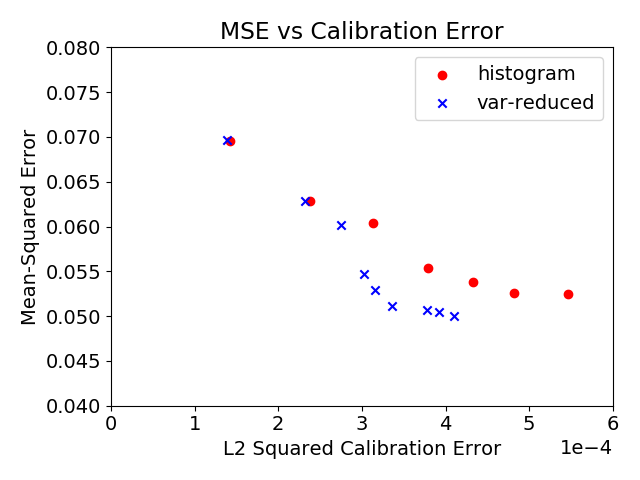
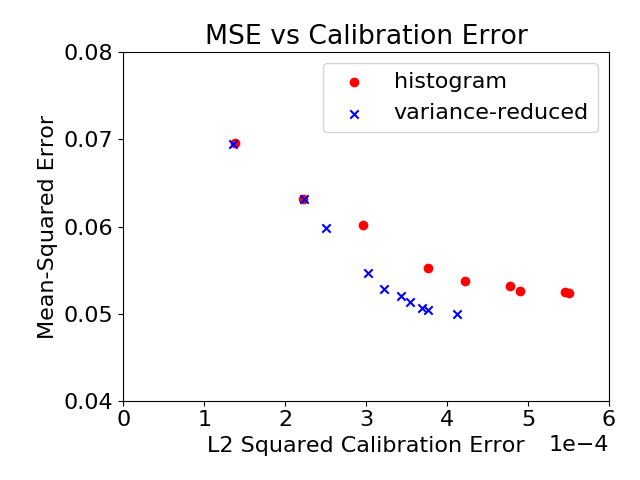
More updates

diff --git a/appendix_verifying_calibration_proofs.tex b/appendix_verifying_calibration_proofs.tex
@@ -3,11 +3,11 @@
 \section{Proofs for section~\ref{sec:verifying_calibration}}
 \label{sec:verifying_calibration_appendix}
 
-In this section we prove the finite sample bounds for the plugin and canceling estimators. We follow a very similar structure for both the plugin estimator and the canceling estimators.
+In this section we prove the finite sample bounds for the plugin and debiased estimators. We follow a very similar structure for both the plugin estimator and the debiased estimators.
 
 We first give a proof for the plugin estimator. At a high level, we decompose the plugin estimator into three terms (Lemma~\ref{lem:plugin_decomp}), and then bound each of these terms. Most of these terms simply involve algebraic manipulation and standard concentration results, except Lemma~\ref{lem:p2_bound} which requires some tricky conditioning.
 
-The canceling estimator decomposes into three terms as well, two of these terms are the same as those in the plugin estimator. Bounding the third term (Lemma~\ref{lem:c3_bound}) is the key to the improved sample complexity of the plugin estimator. The canceling estimator is not unbiased. However, with high probability if we condition on the $x_i$s in the evaluation set, each of these error terms is unbiased. We can then use Hoeffding's to concentrate each term near 0. The errors in each bin are then independent which leads to some cancelations of the error terms when we sum them up.
+The debiased estimator decomposes into three terms as well, two of these terms are the same as those in the plugin estimator. Bounding the third term (Lemma~\ref{lem:c3_bound}) is the key to the improved sample complexity of the plugin estimator. The debiased estimator is not completely unbiased. However, with high probability if we condition on the $x_i$s in the evaluation set, each of these error terms is unbiased. We can then use Hoeffding's to concentrate each term near 0. The errors in each bin are then independent which leads to some cancelations of the error terms when we sum them up.
 
 \textbf{We use the following notation simplification} to simplify the theorem statements and proofs:
 \[ p_i = P(f(X) = s_i) \]
@@ -137,42 +137,43 @@ We then prove the final bound for the plugin estimator.
 \finalPlugin*
 
 \begin{proof}
-We first provide an intuitive argument, and then a formal proof. When $r = 0.5$, we intuitively want to distinguish between when ${E^*}^2$ is $\epsilon^2$ and $0.5\epsilon^2$. So we want to bound the confidence interval by a constant factor of $\epsilon^2$ in the regime where ${E^*}^2 \approx \epsilon^2$. Substitute ${E^*}^2 = \epsilon^2$ into the bound in Theorem~\ref{thm:plugin-bound}, and write out the condition that $| \pluginEst{} - {E^*}^2 | \leq \frac{\epsilon^2}{4}$. With some simple algebra, we get $n = \Theta(B + \frac{B}{\epsilon})$.
+This is now a simple corollary of Theorem~\ref{thm:plugin-bound}. For large enough constant $c$, where $c$ is a constant independent of all the other variables, we choose $n = c\frac{B}{\epsilon^2} \log{\frac{B}{\epsilon^2}}$. Plugging it into the bound of Theorem~\ref{thm:plugin-bound}, we get the desired result, that $\lvert \hat{E}^2 - {E^*}^2 \rvert \leq \frac{1}{2}{E^*}^2$. Notice that the dominating term is term $(P3)$ in Theorem~\ref{thm:plugin-bound}---we will see that the debiased estimator improves on this. 
+% We first provide an intuitive argument, and then a formal proof. When $r = 0.5$, we intuitively want to distinguish between when ${E^*}^2$ is $\epsilon^2$ and $0.5\epsilon^2$. So we want to bound the confidence interval by a constant factor of $\epsilon^2$ in the regime where ${E^*}^2 \approx \epsilon^2$. Substitute ${E^*}^2 = \epsilon^2$ into the bound in Theorem~\ref{thm:plugin-bound}, and write out the condition that $| \pluginEst{} - {E^*}^2 | \leq \frac{\epsilon^2}{4}$. With some simple algebra, we get $n = \Theta(B + \frac{B}{\epsilon})$.
 
-Now we give the formal proof, which formalizes the above intuition. First, we note that if $n \geq 6B \log{\frac{B}{\delta}}$ then $p_i > \piSmallBound{}$ so this satisfies the requirements to apply Theorem~\ref{thm:plugin-bound}.
+% Now we give the formal proof, which formalizes the above intuition. First, we note that if $n \geq 6B \log{\frac{B}{\delta}}$ then $p_i > \piSmallBound{}$ so this satisfies the requirements to apply Theorem~\ref{thm:plugin-bound}.
 
-Let $\omega = \frac{1-r}{2}$. Note that $r + \omega = 1 - \omega$. We split into two cases. In the first case, we will assume that ${E^*}^2 \leq r \epsilon^2$. We will show that with probability at least $1 - \delta$, $\pluginEst{} \leq (1-\omega) \epsilon^2$. In the second case, we will assume that ${E^*}^2 > \epsilon^2$. We will show that with probability at least $1 - \delta$, $\pluginEst{} > (1-\omega) \epsilon^2$. This then gives us an easy way to hypothesis test between the two cases. That is, we will say the model is probably calibrated iff $\pluginEst{} \leq (1-\omega) \epsilon^2$.
+% Let $\omega = \frac{1-r}{2}$. Note that $r + \omega = 1 - \omega$. We split into two cases. In the first case, we will assume that ${E^*}^2 \leq r \epsilon^2$. We will show that with probability at least $1 - \delta$, $\pluginEst{} \leq (1-\omega) \epsilon^2$. In the second case, we will assume that ${E^*}^2 > \epsilon^2$. We will show that with probability at least $1 - \delta$, $\pluginEst{} > (1-\omega) \epsilon^2$. This then gives us an easy way to hypothesis test between the two cases. That is, we will say the model is probably calibrated iff $\pluginEst{} \leq (1-\omega) \epsilon^2$.
 
-\textbf{Case 1}: Suppose  ${E^*}^2 \leq r \epsilon^2$.
+% \textbf{Case 1}: Suppose  ${E^*}^2 \leq r \epsilon^2$.
 
-We will show that $| \pluginEst{} - {E^*}^2 | \leq \omega \epsilon^2$ by bounding each of the three term of  $| \pluginEst{} - {E^*}^2 |$ in Theorem~\ref{thm:plugin-bound} by $\frac{\omega}{3}\epsilon^2$.
+% We will show that $| \pluginEst{} - {E^*}^2 | \leq \omega \epsilon^2$ by bounding each of the three term of  $| \pluginEst{} - {E^*}^2 |$ in Theorem~\ref{thm:plugin-bound} by $\frac{\omega}{3}\epsilon^2$.
 
-For the first term, suppose $n \geq (\frac{54r^2}{\omega^2}\log{\frac{2B}{\delta}})B$ . Then $c(n) {E^*}^2 \leq \frac{\omega}{3}\epsilon^2$.
+% For the first term, suppose $n \geq (\frac{54r^2}{\omega^2}\log{\frac{2B}{\delta}})B$ . Then $c(n) {E^*}^2 \leq \frac{\omega}{3}\epsilon^2$.
 
-For the second term, we first note that from Lemma~\ref{lem:pi_bound}, $c(n) < 1$. So, we have,
-\[ \sqrt{\frac{2(1+c(n)){E^*}^2}{n} \log{\frac{2}{\delta}}} \leq \sqrt{\frac{4{E^*}^2}{n} \log{\frac{2}{\delta}}} \]
-Then, if $n \geq (\frac{36r^2}{\omega^2} \log{\frac{2}{\delta}})\frac{1}{\epsilon^2}$, we have,
-\[ \sqrt{\frac{4{E^*}^2}{n} \log{\frac{2}{\delta}}} \leq \sqrt{\frac{4r^2\epsilon^2}{n} \log{\frac{2}{\delta}}} \leq \frac{\omega}{3}\epsilon^2 \]
+% For the second term, we first note that from Lemma~\ref{lem:pi_bound}, $c(n) < 1$. So, we have,
+% \[ \sqrt{\frac{2(1+c(n)){E^*}^2}{n} \log{\frac{2}{\delta}}} \leq \sqrt{\frac{4{E^*}^2}{n} \log{\frac{2}{\delta}}} \]
+% Then, if $n \geq (\frac{36r^2}{\omega^2} \log{\frac{2}{\delta}})\frac{1}{\epsilon^2}$, we have,
+% \[ \sqrt{\frac{4{E^*}^2}{n} \log{\frac{2}{\delta}}} \leq \sqrt{\frac{4r^2\epsilon^2}{n} \log{\frac{2}{\delta}}} \leq \frac{\omega}{3}\epsilon^2 \]
 
-Finally, for the third term, if $n \geq (\frac{3}{2\omega} \log{\frac{2B}{\delta}}) \frac{B}{\epsilon^2}$, then,
-\[ \frac{B}{2n} \log{\frac{2B}{\delta}} \leq \frac{\omega}{3}\epsilon^2 \]
-In total, for constant $\omega$ and ignoring $\log$ factors, this means if $n = \Theta(B + \frac{B}{\epsilon^2})$, then $\hat{E}^2 \leq (1-\omega) \epsilon^2$.
+% Finally, for the third term, if $n \geq (\frac{3}{2\omega} \log{\frac{2B}{\delta}}) \frac{B}{\epsilon^2}$, then,
+% \[ \frac{B}{2n} \log{\frac{2B}{\delta}} \leq \frac{\omega}{3}\epsilon^2 \]
+% In total, for constant $\omega$ and ignoring $\log$ factors, this means if $n = \Theta(B + \frac{B}{\epsilon^2})$, then $\hat{E}^2 \leq (1-\omega) \epsilon^2$.
 
-\textbf{Case 2}: Suppose ${E^*}^2 > \epsilon^2$.
+% \textbf{Case 2}: Suppose ${E^*}^2 > \epsilon^2$.
 
-It suffices to show that $| \pluginEst{} - {E^*}^2 | \leq \omega {E^*}^2$, because then $\pluginEst{} > (1 - \omega) {E^*}^2 \geq (1 - \omega) \epsilon^2$. As in the previous case, we show this by bounding each of the three terms of  $| \pluginEst{} - {E^*}^2 |$ in Theorem~\ref{thm:plugin-bound} by $\frac{\omega}{3}{E^*}^2$. The proof of this case is nearly identical to the previous case and using the fact that $\epsilon^2 \leq {E^*}^2$.
+% It suffices to show that $| \pluginEst{} - {E^*}^2 | \leq \omega {E^*}^2$, because then $\pluginEst{} > (1 - \omega) {E^*}^2 \geq (1 - \omega) \epsilon^2$. As in the previous case, we show this by bounding each of the three terms of  $| \pluginEst{} - {E^*}^2 |$ in Theorem~\ref{thm:plugin-bound} by $\frac{\omega}{3}{E^*}^2$. The proof of this case is nearly identical to the previous case and using the fact that $\epsilon^2 \leq {E^*}^2$.
 
 \end{proof}
 
-\subsection{Analysis of canceling estimator}
+\subsection{Analysis of debiased estimator}
 
-Next, we bound the error of our canceling estimator. The proof follows along the lines of the plugin estimator. We begin with a decomposition (Lemma~\ref{lem:canceling_decomp}), similar to the decomposition of the plugin estimator. However, one of the terms in the decomposition, $C3$, is different. Lemma~\ref{lem:c3_bound} bounds this term $C3$. The rest of the proof is the same as for the plugin estimator, so we omit the other proofs.
+Next, we bound the error of the debiased estimator. The proof follows along the lines of the plugin estimator. We begin with a decomposition (Lemma~\ref{lem:canceling_decomp}), similar to the decomposition of the plugin estimator. However, one of the terms in the decomposition, $C3$, is different. Lemma~\ref{lem:c3_bound} bounds this term $C3$. The rest of the proof is the same as for the plugin estimator, so we omit the other proofs.
 
-As with the plugin estimator, we have a decomposition for the canceling estimator.
+As with the plugin estimator, we have a decomposition for the debiased estimator.
 
-\begin{lemma}[Canceling decomposition]
+\begin{lemma}[Debiased decomposition]
 \label{lem:canceling_decomp}
-The canceling estimator satisfies the following decomposition:
+The debiased estimator satisfies the following decomposition:
 \[ \cancelEst{} = \underbrace{\sum_{i=1}^b \hat{p_i}e_i^2}_{(C1)}  - \underbrace{2\sum_{i=1}^b \hat{p_i}e_i(\hat{y_i} - y_i^*)}_{(C2)} + \underbrace{\sum_{i=1}^b \hat{p_i}\Big[ (\hat{y_i} - y_i^*)^2 - \frac{\hat{y_i}(1 - \hat{y_i})}{\hat{p_i}n-1} \Big]}_{(C3)} \]
 \end{lemma}
 
@@ -188,7 +189,7 @@ Suppose $|\hat{p_i} - p_i| < c(n) p_i < 0.5 p_i$ for all $i$. Then with probabil
 Let $Z = (f(x_1), \cdots, f(x_n))$ be a random variable. We note that for all $i$, $\hat{p_i}$ is a deterministic function of $Z$. For convenience, define $t_i$ as follows:
 \[ t_i = (\hat{y_i} - y_i^*)^2 - \frac{\hat{y_i}(1 - \hat{y_i})}{\hat{p_i}n-1} \]
 
-\textbf{Computing the expectation:} The canceling estimator debiases the plugin estimator. In particular, we briefly explain why $\expect[C3 \mid Z] = 0$. Since $\hat{y_i}$ is the mean of $n\hat{p_i}$ draws of a Bernoulli with parameter $y_i^*$, we have:
+\textbf{Computing the expectation:} The debiased estimator debiases the plugin estimator. In particular, we briefly explain why $\expect[C3 \mid Z] = 0$. Since $\hat{y_i}$ is the mean of $n\hat{p_i}$ draws of a Bernoulli with parameter $y_i^*$, we have:
 \[ \expect[(\hat{y_i} - y_i^*)^2 \mid Z] = \frac{y_i^*(1 - y_i^*)}{n\hat{p_i}} \] 
 The term we subtracted is the unbiased estimate of the standard deviation of the samples, so from elementary statistics:
 \[ \expect\Big[\frac{\hat{y_i}(1 - \hat{y_i})}{\hat{p_i}n-1} \mid Z\Big] = \frac{y_i^*(1 - y_i^*)}{n\hat{p_i}} \]
@@ -227,12 +228,12 @@ Summing over $t_i$s, we get:
 
 \tm{where the theorem above is used. It sounds atypical to have a theorem in appendix..}
 \tm{it's almost always better to write theorem first and then lemmas.. }
-We combine the bounds for $(C1)$, $(C2)$, $(C3)$, as in Theorem~\ref{thm:plugin-bound}, to bound the estimation error of the canceling estimator.
+We combine the bounds for $(C1)$, $(C2)$, $(C3)$, as in Theorem~\ref{thm:plugin-bound}, to bound the estimation error of the debiased estimator.
 
 \begin{restatable}{theorem}{cancelingBound}
 \label{thm:our-bound}
 Let $p_i = P(f(X) = s_i)$ and suppose $p_i > \piSmallBound{}$ for all $i$. Let $c(n)$ be as defined in Theorem~\ref{thm:plugin-bound}. \tm{maybe an easier way to do it is: In the same setting of Theorem ??. Then you don't have to redefine some of these quantities.}
-Then for the cancelling estimator, with probability at least $1 - 4\delta$,
+Then for the debiased estimator, with probability at least $1 - 4\delta$,
 \[ | \hat{E}^2 - {E^*}^2 | \leq c(n){E^*}^2 + \sqrt{\frac{2(1+c(n)){E^*}^2}{n} \log{\frac{2}{\delta}}} + \frac{3\sqrt{B}}{n} \log{\frac{n}{\delta}} + \frac{\delta}{n}\]
 \end{restatable}
 \tm{may be good to explain what's the dominating term. How to interpret the bound ---}\tm{I guess it's kind of okay if you have a corollary that directly follows}

diff --git a/verifying_calibration.tex b/verifying_calibration.tex
@@ -7,7 +7,7 @@
 \newcommand{\piSmallBound}[0]{\ensuremath{\frac{12}{n}\log{\frac{2B}{\delta}}}}
 
 \tm{I wonder we should have subscript for $\cancelEst$. $\ensuremath{\hat{E}_{\textup{cxl}}^2}$? Sounds a bit verbose..}
-Before deploying our model we would like to check that it has calibration error below some desired threshold $\epsilon^2$. In this section we show that we can efficiently estimate the calibration error of binned models, if the binning scheme is 2-well-balanced. Recent work in machine learning typically estimates each term in the calibration error directly from samples~\cite{nguyen2015posterior, hendrycks2019anomaly, kuleshov2015calibrated, hendrycks2019pretraining}. Older work in meteorology~\cite{brocker2012empirical, ferro2012bias} notices that this leads to a biased estimate, and proposes a `debiased' estimator than subtracts off an approximate correction term to reduce the bias. Our contribution is to show that while the naive estimator requires samples proportional to $B$ to estimate the calibration error, the debiased estimator requires samples proportional to $\sqrt{B}$. To our knowledge we are the first to show an \emph{improved sample complexity}---prior work only showed that the naive estimator is biased.
+Before deploying our model we would like to check that it has calibration error below some desired threshold $\epsilon^2$. In this section we show that we can efficiently estimate the calibration error of binned models, if the binning scheme is 2-well-balanced. Recent work in machine learning typically estimates each term in the calibration error directly from samples~\cite{nguyen2015posterior, hendrycks2019anomaly, kuleshov2015calibrated, hendrycks2019pretraining}. Older work in meteorology~\cite{brocker2012empirical, ferro2012bias} notices that this leads to a biased estimate, and proposes a `debiased' estimator that subtracts off an approximate correction term to reduce the bias. Our contribution is to show that while the naive estimator requires samples proportional to $B$ to estimate the calibration error, the debiased estimator requires samples proportional to $\sqrt{B}$. To our knowledge we are the first to show an \emph{improved sample complexity}---prior work only showed that the naive estimator is biased.
 
 Suppose we wish to measure the calibration error of a model $f : \mathcal{X} \to S$ where $S \subseteq [0, 1]$ and $|S| = B$. Suppose we get an evaluation set $T_n = \{(x_1, y_1), \dots, (x_n, y_n)\}$. Past work typically estimates the calibration error by directly estimating each term from samples:
 
@@ -30,7 +30,10 @@ Alternatively, \cite{brocker2012empirical, ferro2012bias} propose to subtract an
 \[ \hat{E}^2 = \sum_{s \in S} \hat{p}_s \Big[ (s - \hat{y}_s)^2 - \frac{\hat{y}_s(1 - \hat{y}_s)}{\hat{p}_sn-1} \Big] \]
 \end{restatable}
 
-Suppose we want to check if our model has calibration error $\leq \epsilon^2$. With high probability, if the calibration error is $> \epsilon^2$, we should output that the model is not calibrated, but if the calibration error is $\leq \frac{1}{2} \epsilon^2$, we should output that it is calibrated. They way we do this is we take $n$ samples and get an estimate, $\hat{E}^2$, of the calibration error---we output `calibrated' iff $\hat{E}^2 \leq \frac{3}{4} \epsilon^2$. We are interested in analyzing how large $n$ needs to be. Equivalently, we can examine the number of samples required to estimate the calibration error within a constant multiplicative factor, that is $\lvert \hat{E}^2 - {E^*}^2 \rvert \leq \frac{1}{2}{E^*}^2$.
+We are interested in analyzing the number of samples required to estimate the calibration error within a constant multiplicative factor, that is to give an estimate $\hat{E}^2$ such that $\lvert \hat{E}^2 - {E^*}^2 \rvert \leq \frac{1}{2}{E^*}^2$ (where $\frac{1}{2}$ can be replaced by any constant $r$ with $0 < r < 1$). Our main result is that the plugin estimator requires $\widetilde{O}(\frac{B}{\epsilon^2})$ samples (Theorem~\ref{thm:final-plugin}) while the debiased estimator requires $\widetilde{O}(\frac{\sqrt{B}}{\epsilon^2})$ samples (Theorem~\ref{thm:final-ours}), where $\epsilon = {E^*}^2$.
+
+
+% Suppose we want to check if our model has calibration error $\leq \epsilon^2$. With high probability, if the calibration error is $> \epsilon^2$, we should output that the model is not calibrated, but if the calibration error is $\leq \frac{1}{2} \epsilon^2$, we should output that it is calibrated. They way we do this is we take $n$ samples and get an estimate, $\hat{E}^2$, of the calibration error---we output `calibrated' iff $\hat{E}^2 \leq \frac{3}{4} \epsilon^2$. We are interested in analyzing how large $n$ needs to be. Equivalently, we can examine the number of samples required to estimate the calibration error within a constant multiplicative factor, that is $\lvert \hat{E}^2 - {E^*}^2 \rvert \leq \frac{1}{2}{E^*}^2$.
 
 % Concretely, suppose we are interested in checking if our model has calibration error $\leq \epsilon$
 % \pl{but this is not what we actually show due to $r$}. If the calibration error is $> \epsilon$, then with high probability we should output that it is not calibrated \pl{be more precise}\ak{Which part should be more precise?}
@@ -40,26 +43,27 @@ Suppose we want to check if our model has calibration error $\leq \epsilon^2$. W
 % If the calibration error is $< r\epsilon$, where $0 < r < 1$ is a user-specified effect size, then with high probability we should output that the model is calibrated.
 
 
-Our main result is that to check if the $\ell_2^2$ calibration error is $\leq \epsilon^2$, the plugin estimator requires $\widetilde{O}(\frac{B}{\epsilon^2})$ samples (Theorem~\ref{thm:final-plugin}) while the debiased estimator requires $\widetilde{O}(\frac{\sqrt{B}}{\epsilon^2})$ samples (Theorem~\ref{thm:final-ours}):
+% Our main result is that to check if the $\ell_2^2$ calibration error is $\leq \epsilon^2$, the plugin estimator requires $\widetilde{O}(\frac{B}{\epsilon^2})$ samples (Theorem~\ref{thm:final-plugin}) while the debiased estimator requires $\widetilde{O}(\frac{\sqrt{B}}{\epsilon^2})$ samples (Theorem~\ref{thm:final-ours}):
 
 \begin{restatable}[Plugin bound]{theorem}{finalPlugin}
 \label{thm:final-plugin}
-  Suppose we have a binned model, where the binning scheme is 2-well-balanaced, that is $\forall i.\;p_i \geq \frac{1}{2B}$, and $n = \widetilde{O}(\frac{B}{\epsilon^2})$ where $\widetilde{O}$ hides $\log$ factors. Then the plugin estimator can check if ${E^*}^2 \leq \epsilon^2$ with high probability.
+  Suppose we have a binned model with $\ell_2^2$ calibration error ${E^*}^2 = \epsilon^2$, where the binning scheme is 2-well-balanced, that is $\forall i.\;p_i \geq \frac{1}{2B}$. If $n \geq c\frac{B}{\epsilon^2}\log{\frac{B}{\delta}}$ for some universal constant $c$ then for the plugin estimator: $\frac{1}{2} {E^*}^2 \leq \pluginEst{} \leq \frac{3}{2} {E^*}^2$ with probability at least $1 - \delta$.
+ % Suppose we have a binned model with $\ell_2^2$ calibration error ${E^*}^2 = \epsilon^2$, where the binning scheme is 2-well-balanced, that is $\forall i.\;p_i \geq \frac{1}{2B}$, and $n = \widetilde{O}(\frac{B}{\epsilon^2})$ where $\widetilde{O}$ hides $\log$ factors. Then for the plugin estimator: $\frac{1}{2} {E^*}^2 \leq \pluginEst{} \leq \frac{3}{2} {E^*}^2$ with high probability.
 \end{restatable}
 
 \begin{restatable}[Debiased bound]{theorem}{finalCanceling}
 \label{thm:final-ours}
-  Suppose $\forall i.\;p_i \geq \frac{1}{2B}$ and $n = \widetilde{O}(B+\frac{\sqrt{B}}{\epsilon^2})$. Then the debiased estimator can check if ${E^*}^2 \leq \epsilon^2$ with high probability.
+  Suppose we have a binned model with $\ell_2^2$ calibration error ${E^*}^2 = \epsilon^2$ and $\forall i.\;p_i \geq \frac{1}{2B}$. If $n \geq c\frac{\sqrt{B}}{\epsilon^2}\log{\frac{B}{\delta}}$ for some universal constant $c$ then for the debiased estimator: $\frac{1}{2} {E^*}^2 \leq \cancelEst{} \leq \frac{3}{2}{E^*}^2$ with probability at least $1 - \delta$.
 \end{restatable}
 
-Another way of thinking about the result is that the debiased estimator needs fewer samples to estimate the true calibration error: for the plugin estimator if $n = \widetilde{O}(\frac{B}{{E^*}^2})$ then $\frac{1}{2} {E^*}^2 \leq \pluginEst{} \leq \frac{3}{2} {E^*}^2$ but for the debiased estimator if $n = \widetilde{O}(\frac{\sqrt{B}}{{E^*}^2})$ then $\frac{1}{2} {E^*}^2 \leq \cancelEst{} \leq \frac{3}{2}{E^*}^2$.
+% Another way of thinking about the result is that the debiased estimator needs fewer samples to estimate the true calibration error: for the plugin estimator if $n = \widetilde{O}(\frac{B}{{E^*}^2})$ then $\frac{1}{2} {E^*}^2 \leq \pluginEst{} \leq \frac{3}{2} {E^*}^2$ but for the debiased estimator if $n = \widetilde{O}(\frac{\sqrt{B}}{{E^*}^2})$ then $\frac{1}{2} {E^*}^2 \leq \cancelEst{} \leq \frac{3}{2}{E^*}^2$.
 % Theorems~\ref{thm:plugin-bound} and~\ref{thm:our-bound} in Appendix~\ref{sec:verifying_calibration_appendix} also bound the estimation error as a function of $n$.
 
 The proof of both theorems is in Appendix~\ref{sec:verifying_calibration_appendix}. The idea is that for the plugin estimator each term in the sum has bias $1/n$. These biases accumulate, giving total bias $B/n$. The debiased estimator has much lower bias and the estimation variance cancels across bins---this intuition is captured in Lemma~\ref{lem:c3_bound} which requires careful conditioning to make the argument go through.
 
 These bounds suggest that estimating calibration error can be the bottleneck, underscoring the importance of the estimation problem, since under suitable conditions, the variance-reduced calibrator can calibrate with $\widetilde{O}(B + \frac{1}{\epsilon^2})$ samples but we need $\widetilde{O}(B + \frac{\sqrt{B}}{\epsilon^2})$ samples to check if the error is $\leq \epsilon$.
 
-Past work in meteorology has shown that the debiased estimator performs better in practice---the main contribution of our work here is to show that the estimator also has an \emph{improved sample complexity}. However, in Appendix~\ref{sec:verifying_calibration_appendix_experiments}, we run experiments on CIFAR-10, and show that for any desired calibration error, the debiased estimator enables us to pick out models with a better mean-squared error.
+Past work in meteorology has shown that the debiased estimator performs better in practice---the main contribution of our work here is to show that the estimator also has an \emph{improved sample complexity}. However, in Appendix~\ref{sec:verifying_calibration_appendix_experiments}, we run experiments on CIFAR-10, and show that for any desired calibration error, the debiased estimator enables us to pick out models with a lower mean-squared error. For example, if we use the debiased estimator we would select a model with $12\%$ lower mean-squared error if we want the $\ell_2$ calibration error to be less than $1.5\%$.
 
 \pl{what happened to the results - I think we need to have one experiment in the main text comparing the plugin and the debiased estimator}
 

diff --git a/related_work.tex b/related_work.tex
@@ -1,8 +1,8 @@
 \section{Related work}
 
-Calibration has been studied and used in many fields including meteorology~\cite{murphy1973vector, murphy1977reliability, degroot1983forecasters,gneiting2005weather, brocker2009decomposition}, medicine~\cite{jiang2012calibrating, crowson2017calibration, harrell1996prognostic}, reinforcement learning~\cite{malik2019calibrated}, natural language processing~\cite{nguyen2015posterior, card2018calibration}, speech recognition~\cite{dong2011calibration}, econometrics~\cite{gneiting2007probabilistic}, and psychology~\cite{lichtenstein1982calibration}. Our work is inspired in part by recent methods for calibration~\cite{guo2017calibration, kuleshov2018accurate, hendrycks2019anomaly}. In these papers, binning is used to evaluate the calibration error of models, whereas in our case it is part of the method itself, which is key to the guarantees we give. Besides the calibration error metric, prior work also uses the Hosmer-Lemeshov test~\cite{hosmer1980goodness} and reliability diagrams~\cite{degroot1983forecasters, brocker2007reliability} to evaluate calibration. Besides calibration, there are many other ways of producing and quantifying uncertainties, including Bayesian methods~\cite{gelman1995bayesian} and conformal prediction~\cite{shafer2008tutorial, lei2016distribution}.
+Calibration has been studied and used in many fields including meteorology~\cite{murphy1973vector, murphy1977reliability, degroot1983forecasters,gneiting2005weather, brocker2009decomposition}, medicine~\cite{jiang2012calibrating, crowson2017calibration, harrell1996prognostic}, reinforcement learning~\cite{malik2019calibrated}, natural language processing~\cite{nguyen2015posterior, card2018calibration}, speech recognition~\cite{dong2011calibration}, econometrics~\cite{gneiting2007probabilistic}, and psychology~\cite{lichtenstein1982calibration}. Our work is inspired in part by recent methods for calibration~\cite{guo2017calibration, kuleshov2018accurate, hendrycks2019anomaly}. In these papers, binning is used to evaluate the calibration error of models, whereas in our case it is part of the method itself and we use a different binning scheme from these works, which is key to the guarantees we give. Besides the calibration error metric, prior work also uses the Hosmer-Lemeshov test~\cite{hosmer1980goodness} and reliability diagrams~\cite{degroot1983forecasters, brocker2007reliability} to evaluate calibration. Besides calibration, there are many other ways of producing and quantifying uncertainties, including Bayesian methods~\cite{gelman1995bayesian} and conformal prediction~\cite{shafer2008tutorial, lei2016distribution}.
 
-Bias is a common issue with statistical estimators, for example for the sample standard deviation. It has also long been known that the mean-squared error, measured on samples, gives a biased estimate---the seminal work by Stein~\cite{stein81sure} investigates and fixes this bias. However, debiasing an estimator does not typically lead to \emph{an improved sample complexity.}
+Bias is a common issue with statistical estimators, for example for the sample standard deviation. It has also long been known that the mean-squared error, measured on samples, gives a biased estimate---the seminal work by Stein~\cite{stein81sure} investigates and fixes this bias. However, debiasing an estimator does not typically lead to \emph{an improved sample complexity}, as it does in this case.
 
 \pl{first impression is that this looks really brief...you can say calibration has been studied traditionally in many fields: meteorology (cite), ML (cite), etc.;
 then is there's probably non calibration work that's related...just non-parametric function estimation...how is calibration different?
@@ -12,7 +12,7 @@ anything related for proof techniques?
 \section{Conclusion}
 
 In this paper we had three contributions: 1. We showed that the calibration error of popular continuous models is underestimated; 2. We introduced the first method, to our knowledge, that has better sample complexity than histogram binning but has a \emph{measurable calibration error}, giving us the best of both worlds of scaling and binning; and 3. We showed that an alternative estimator has better sample complexity than the commonly used plugin estimator. Our method gives us 35\% lower calibration error on CIFAR-10, and up to 5x lower calibration error on ImageNet, when we use $B = 100$ bins.
-
+\newpage
 % We hope future work looks at even stronger notions of multiclass calibration (prior work typically focuses on top-label calibration) and calibration under domain shift.
 
 % We think our framework opens up many new avenues for exploration. Can we come up with a binning scheme that is better than the well-balanced binning scheme that is one that leads estimate the calibration error even faster, at least for 

diff --git a/appendix_verifying_calibration_experiments.tex b/appendix_verifying_calibration_experiments.tex
@@ -10,7 +10,7 @@ We ran multiclass marginal calibration experiments on CIFAR-10 which suggest tha
 
 To give more insight into this, Figure~\ref{fig:histograms_estimators_bins} shows a histogram of the absolute difference between the estimates and ground truth for the plugin and debiased estimator, over the 1,000 resamples, when we use $B = 10$ or $B = 100$ bins. For $B = 10$ bins it is not completely clear which estimator is doing better but the debiased estimator avoids very bad estimates. However, when $B = 100$, the debiased estimator produces estimates much closer to the ground truth ($0$ on the x-axis).
 
-We also ran a multiclass calibration experiment on CIFAR-10 to show that our estimator allows us to select models with a lower mean-squared error subject to a given calibration constraint. In this case we split the validation set into $\calset{}$ and $\verifset{}$ of size 6000 and 4000 respectively, and recalibrated a trained model on $\calset{}$. On $\verifset{}$, we estimate the calibration error using the plugin and debiased estimators and use 100 Bootstrap resamples to compute a 90\% upper confidence bound on the estimate. We compute the mean-squared error and the upper bounds on the calibration error for $B = 10, 15, \dots, 100$ and show the Pareto curve in Figure~\ref{fig:mse_vs_ce_estimators}. Figure~\ref{fig:mse_vs_ce_estimators} shows that for any desired calibration error, the debiased estimator enables us to pick out models with a better mean-squared error. For example, if we want a model with $\ell_2$ calibration error less than $1.5\%$, the debiased estimator tells us we can confidently use 100 bins, while relying on the plugin estimator only lets us use 15 bins and incurs a 13\% higher mean-squared error.
+We also ran a multiclass calibration experiment on CIFAR-10 to show that our estimator allows us to select models with a lower mean-squared error subject to a given calibration constraint. In this case we split the validation set into $\calset{}$ and $\verifset{}$ of size 6000 and 4000 respectively, and recalibrated a trained model on $\calset{}$. On $\verifset{}$, we estimate the calibration error using the plugin and debiased estimators and use 100 Bootstrap resamples to compute a 90\% upper confidence bound on the estimate. We compute the mean-squared error and the upper bounds on the calibration error for $B = 10, 15, \dots, 100$ and show the Pareto curve in Figure~\ref{fig:mse_vs_ce_estimator}. Figure~\ref{fig:mse_vs_ce_estimator} shows that for any desired calibration error, the debiased estimator enables us to pick out models with a better mean-squared error. For example, if we want a model with $\ell_2$ calibration error less than $1.5\%$, the debiased estimator tells us we can confidently use 100 bins, while relying on the plugin estimator only lets us use 15 bins and incurs a 13\% higher mean-squared error.
 
 % Note that in our theoretical results in Section~\ref{sec:verifying_calibration}, we focused on hypothesis testing, using the estimator to test whether a model has calibration error $\leq \epsilon$ or not. However, the 
 
@@ -37,7 +37,7 @@ We also ran a multiclass calibration experiment on CIFAR-10 to show that our est
          \caption{$B = 100$
          \pl{make text larger by reducing the xrange and yrange}
          }
-         \label{fig:mse_vs_ce_estimators}
+         \label{fig:ce_vs_bins_verifying}
      \end{subfigure}
   \caption{
     Mean-squared errors of debiased (labeled as `ours') and plugin estimators on a recalibrated VGG16 model on CIFAR-10 with $90\%$ confidence intervals (lower values better). The debiased estimator is closer to the ground truth, which corresponds to $0$ on the y-axis, especially when $B$ is large and/or the number of samples $n$ is small.

diff --git a/calibrating_models.tex b/calibrating_models.tex
@@ -10,7 +10,6 @@ We split the recalibration data $T$ of size $n$ into 3 sets: $T_1$, $T_2$, $T_3$
 \textbf{Step 1 (Function fitting):} The first step is to select $g = \argmin_{g \in G} \sum_{(z, y) \in T_1} (y - g(z))^2$.
 
 \textbf{Step 2 (Bin construction):} The second step is to construct a suitable binning scheme. We choose the bins so that an equal number of $g(z_i)$ in $T_2$ land in each bin $I_j$ for each $j \in \{1, \dots, B\}$, instead of equal width bins used in~\cite{guo2017calibration}--our choice of bins is essential for our bounds.
-\pl{emphasize this is not evenly spaced bins like previous work}
 
 \textbf{Step 3 (Discretization):} The third step is to discretize $g$, by outputting the average $g$ value in each bin---these are the gray circles in Figure~\ref{fig:var_red_binning}. Let $\mu(S) = \frac{1}{|S|} \sum_{s \in S} s$ denote the mean of a set of values.
 Let $\hat{\mu}[j] = \mu(\{ g(z_i) \; | \; g(z_i) \in I_j \wedge (z_i, y_i) \in T_3 \})$ be the mean of the $g(z_i)$ values that landed in the $j$-th bin.
@@ -25,7 +24,7 @@ We now show that the variance-reduced calibrator requires $O(B + 1/\epsilon^2)$ 
 \begin{restatable}[Calibration bound]{theorem}{finalCalib}
 \label{thm:final-calib}
 Suppose that $\min_{g \in \mathcal{G}}\ell_2^2\mbox{-CE}(g) \leq \epsilon^2$.
-  With $n = \widetilde{O}(B + \frac{d'}{\epsilon^2})$ samples, where $\widetilde{O}$ hides log factors, the variance-reduced calibration algorithm \pl{estimator} finds $\hat{g}_{\mathcal{B}}$ with $\ell_2^2\mbox{-CE}(\hat{g}_{\mathcal{B}}) \leq 2 \epsilon^2$. Note that $d'$ is the number of parameters which is $1$ for Platt scaling.
+  With $n = \widetilde{O}(B + \frac{d'}{\epsilon^2})$ samples, where $\widetilde{O}$ hides log factors, the variance-reduced calibration algorithm finds $\hat{g}_{\mathcal{B}}$ with $\ell_2^2\mbox{-CE}(\hat{g}_{\mathcal{B}}) \leq 2 \epsilon^2$. Note that $d'$ is the number of parameters which is $1$ for Platt scaling.
 \end{restatable}
 
 We present a proof in Appendix~\ref{sec:calibrating_models_appendix} but give a sketch here. Step 1 of our algorithm is Platt scaling, which simply fits a function $g$ to the data---standard statistical learning theory results show that $g$ converges in $O(\frac{1}{\epsilon^2})$ samples.
@@ -79,8 +78,6 @@ Using more bins allows a model to produce more fine-grained predictions e.g.~\ci
   \caption{
   (\textbf{Left}) Recalibrating using 1,000 data points on CIFAR-10, our variance-reduced calibrator achieves lower $\ell_2^2$ calibration error than histogram binning, especially when the number of bins $B$ is large.
   (\textbf{Right}) For a fixed calibration error, our variance-reduced calibrator allows us to use more bins. This results in models with more predictive power which can be measured by the mean-squared error. Note the Y-axis range is $[0.4, 0.8]$ to zoom into the relevant region.
-  \pl{change legend to 'histogram binning' and variance-reduced estimator' for both for consistency}
-  \tm{if we have time, we could also make the x,y lablel font bigger. and use scientific formt for xtick and ytick; and maybe slightly bigger legend.}
   }
   \label{fig:nan2}
 \end{figure}

diff --git a/main.tex b/main.tex
@@ -24,13 +24,13 @@
 \newtheorem{corollary}[theorem]{Corollary}
 
 
-\newcommand{\pl}[1]{}
-\newcommand{\tm}[1]{}
-\newcommand{\ak}[1]{}
+% \newcommand{\pl}[1]{}
+% \newcommand{\tm}[1]{}
+% \newcommand{\ak}[1]{}
 
-% \newcommand{\pl}[1]{\textcolor{red}{[PL: #1]}}
-% \newcommand{\tm}[1]{\textcolor{blue}{[TM: #1]}}
-% \newcommand{\ak}[1]{\textcolor{brown}{[AK: #1]}}
+\newcommand{\pl}[1]{\textcolor{red}{[PL: #1]}}
+\newcommand{\tm}[1]{\textcolor{blue}{[TM: #1]}}
+\newcommand{\ak}[1]{\textcolor{brown}{[AK: #1]}}
 
 \newcommand{\expect}[0]{\ensuremath{\mathbb{E}}}
 \newcommand{\prob}[0]{\ensuremath{\mathbb{P}}}
@@ -74,19 +74,21 @@
 % \AND instead of \And before the third author name.
 
 \author{%
-  David S.~Hippocampus\thanks{Use footnote for providing further information
-    about author (webpage, alternative address)---\emph{not} for acknowledging
-    funding agencies.} \\
+  Ananya Kumar \\
   Department of Computer Science\\
-  Cranberry-Lemon University\\
-  Pittsburgh, PA 15213 \\
-  \texttt{hippo@cs.cranberry-lemon.edu} \\
+  Stanford University\\
+  \texttt{ananya@cs.stanford.edu} \\
   % examples of more authors
-  % \And
-  % Coauthor \\
-  % Affiliation \\
-  % Address \\
-  % \texttt{email} \\
+  \And
+  Percy Liang \\
+  Department of Computer Science\\
+  Stanford University\\
+  \texttt{pliang@cs.stanford.edu} \\
+  \And
+  Tengyu Ma \\
+  Department of Computer Science\\
+  Stanford University\\
+  \texttt{tengyuma@stanford.edu} \\
 }
 
 \begin{document}
